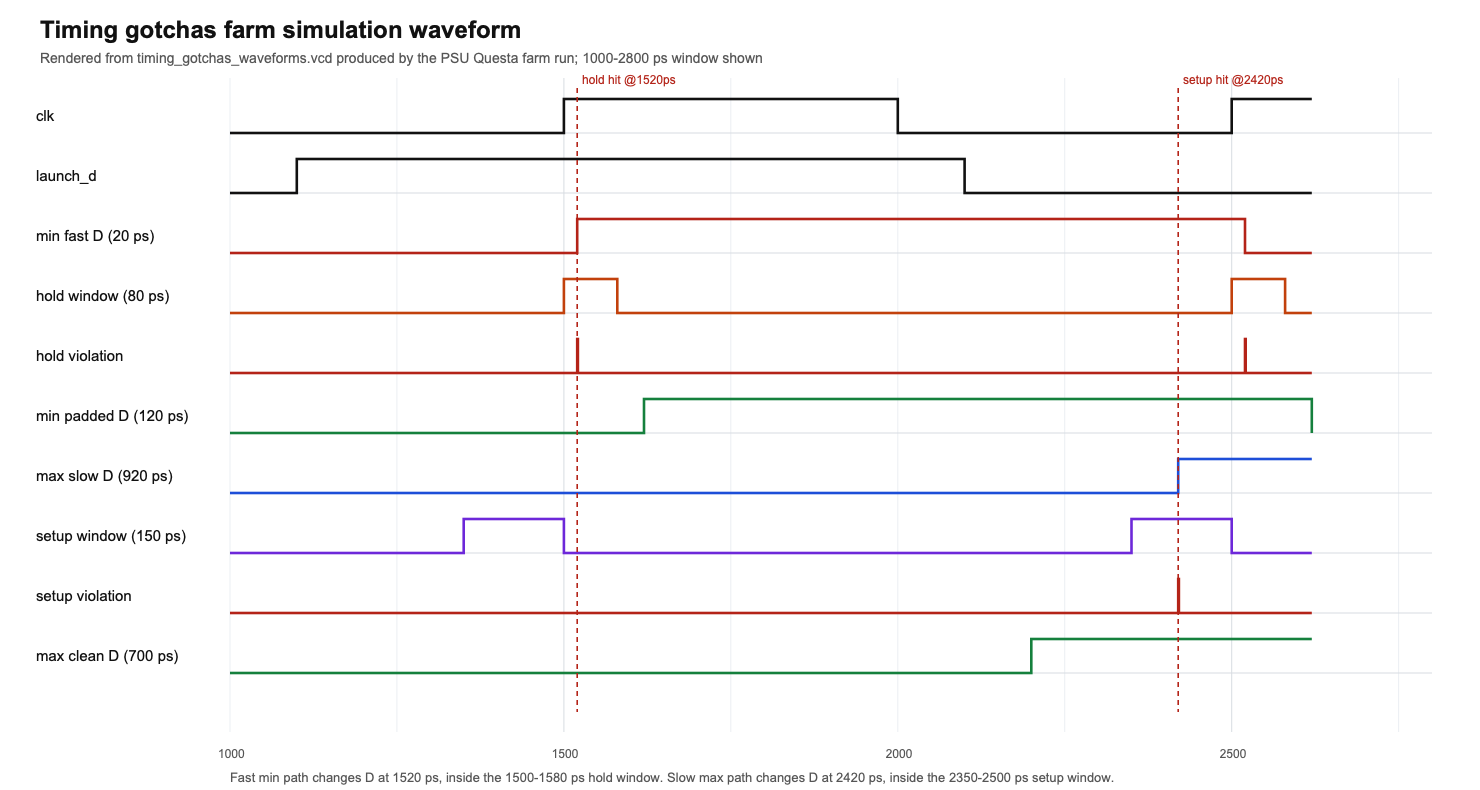
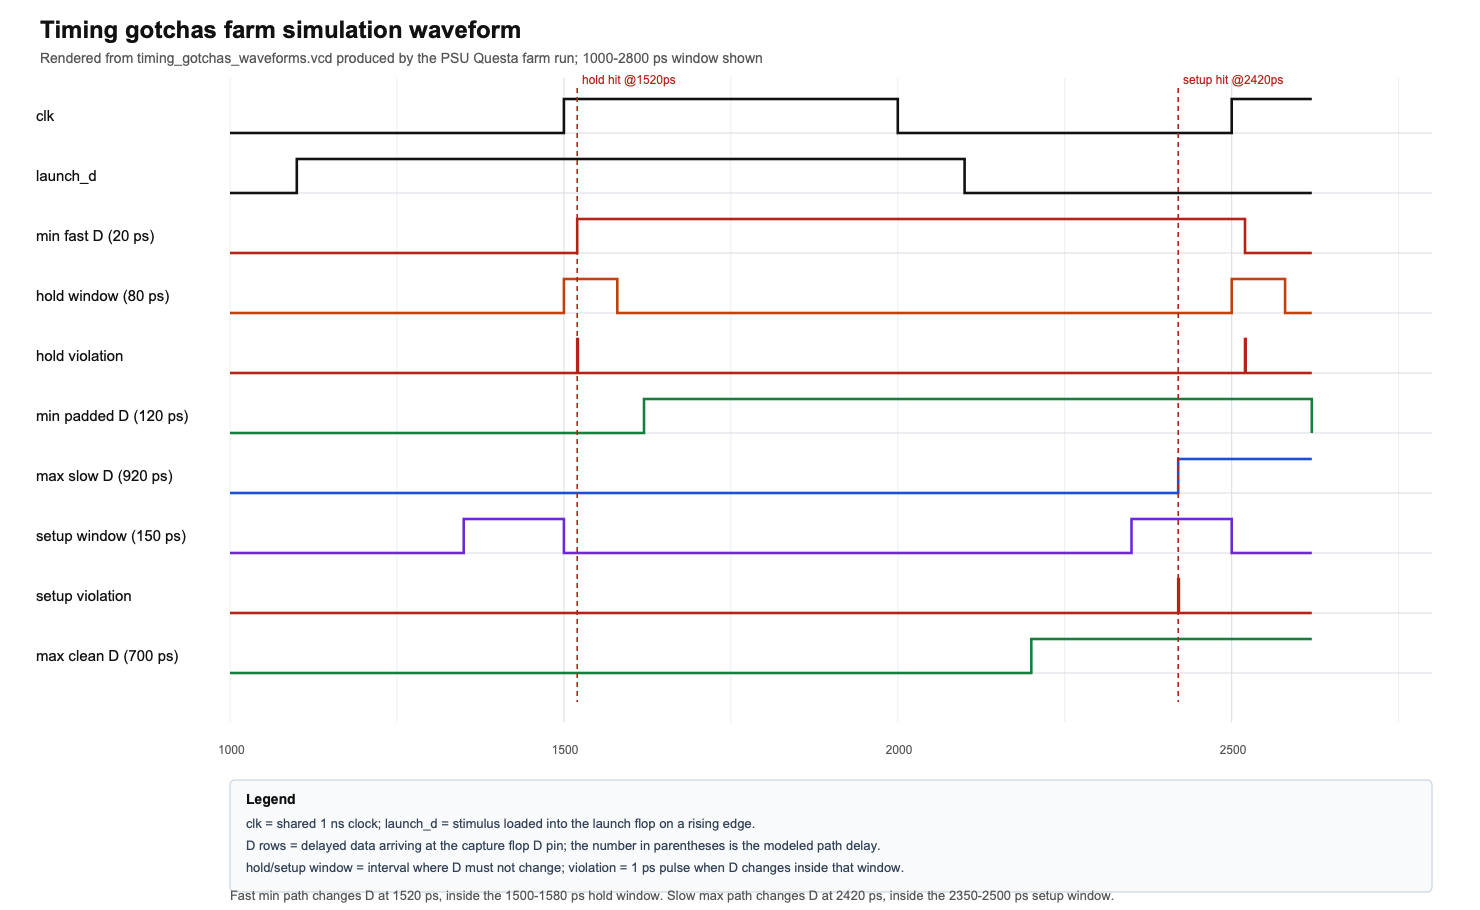
docs: add timing waveform legend

diff --git a/timing_gotchas/make_artifacts.py b/timing_gotchas/make_artifacts.py
@@ -156,7 +156,7 @@ def render_waveforms(rows: list[dict[str, str]], path: Path) -> None:
         raise SystemExit("no visible waveform rows")
 
     width = 1480
-    height = 790
+    height = 910
     left = 230
     right = 48
     top = 96
@@ -175,6 +175,8 @@ def render_waveforms(rows: list[dict[str, str]], path: Path) -> None:
         ("max_slow_setup_violation_pulse", "setup violation", "#b42318"),
         ("max_ok_capture_d", "max clean D (700 ps)", "#15803d"),
     ]
+    axis_y = top + len(lanes) * lane_h + 58
+    legend_top = axis_y + 26
 
     def x_at(time_ps: int) -> float:
         return left + ((time_ps - start_ps) * plot_w / (end_ps - start_ps))
@@ -189,9 +191,9 @@ def render_waveforms(rows: list[dict[str, str]], path: Path) -> None:
     for tick in range(start_ps, end_ps + 1, 250):
         x = x_at(tick)
         stroke = "#d7dce2" if tick % 1000 == 500 else "#eceff3"
-        parts.append(f'<line x1="{x:.1f}" y1="{top - 18}" x2="{x:.1f}" y2="{height - 58}" stroke="{stroke}" stroke-width="1"/>')
+        parts.append(f'<line x1="{x:.1f}" y1="{top - 18}" x2="{x:.1f}" y2="{axis_y - 32}" stroke="{stroke}" stroke-width="1"/>')
         if tick % 500 == 0:
-            parts.append(f'<text x="{x:.1f}" y="{height - 32}" text-anchor="middle" font-family="Arial, sans-serif" font-size="12" fill="#555">{tick}</text>')
+            parts.append(f'<text x="{x:.1f}" y="{axis_y}" text-anchor="middle" font-family="Arial, sans-serif" font-size="12" fill="#555">{tick}</text>')
 
     for lane_index, (key, label, color) in enumerate(lanes):
         y_mid = top + lane_index * lane_h + 20
@@ -227,10 +229,15 @@ def render_waveforms(rows: list[dict[str, str]], path: Path) -> None:
     for times, color, label in marker_rows.values():
         for time_ps in times:
             x = x_at(time_ps)
-            parts.append(f'<line x1="{x:.1f}" y1="{top - 8}" x2="{x:.1f}" y2="{height - 78}" stroke="{color}" stroke-width="1.6" stroke-dasharray="5 4"/>')
+            parts.append(f'<line x1="{x:.1f}" y1="{top - 8}" x2="{x:.1f}" y2="{axis_y - 52}" stroke="{color}" stroke-width="1.6" stroke-dasharray="5 4"/>')
             parts.append(f'<text x="{x + 5:.1f}" y="{top - 12}" font-family="Arial, sans-serif" font-size="12" fill="{color}">{label} @{time_ps}ps</text>')
 
-    parts.append(f'<text x="{left}" y="{height - 8}" font-family="Arial, sans-serif" font-size="13" fill="#555">Fast min path changes D at 1520 ps, inside the 1500-1580 ps hold window. Slow max path changes D at 2420 ps, inside the 2350-2500 ps setup window.</text>')
+    parts.append(f'<rect x="{left}" y="{legend_top}" width="{plot_w}" height="112" rx="5" fill="#f8fafc" stroke="#cbd5e1" stroke-width="1.2"/>')
+    parts.append(f'<text x="{left + 16}" y="{legend_top + 24}" font-family="Arial, sans-serif" font-size="14" font-weight="700" fill="#111">Legend</text>')
+    parts.append(f'<text x="{left + 16}" y="{legend_top + 48}" font-family="Arial, sans-serif" font-size="13" fill="#334155">clk = shared 1 ns clock; launch_d = stimulus loaded into the launch flop on a rising edge.</text>')
+    parts.append(f'<text x="{left + 16}" y="{legend_top + 70}" font-family="Arial, sans-serif" font-size="13" fill="#334155">D rows = delayed data arriving at the capture flop D pin; the number in parentheses is the modeled path delay.</text>')
+    parts.append(f'<text x="{left + 16}" y="{legend_top + 92}" font-family="Arial, sans-serif" font-size="13" fill="#334155">hold/setup window = interval where D must not change; violation = 1 ps pulse when D changes inside that window.</text>')
+    parts.append(f'<text x="{left}" y="{height - 10}" font-family="Arial, sans-serif" font-size="13" fill="#555">Fast min path changes D at 1520 ps, inside the 1500-1580 ps hold window. Slow max path changes D at 2420 ps, inside the 2350-2500 ps setup window.</text>')
     parts.append("</svg>")
     path.write_text("\n".join(parts))
 